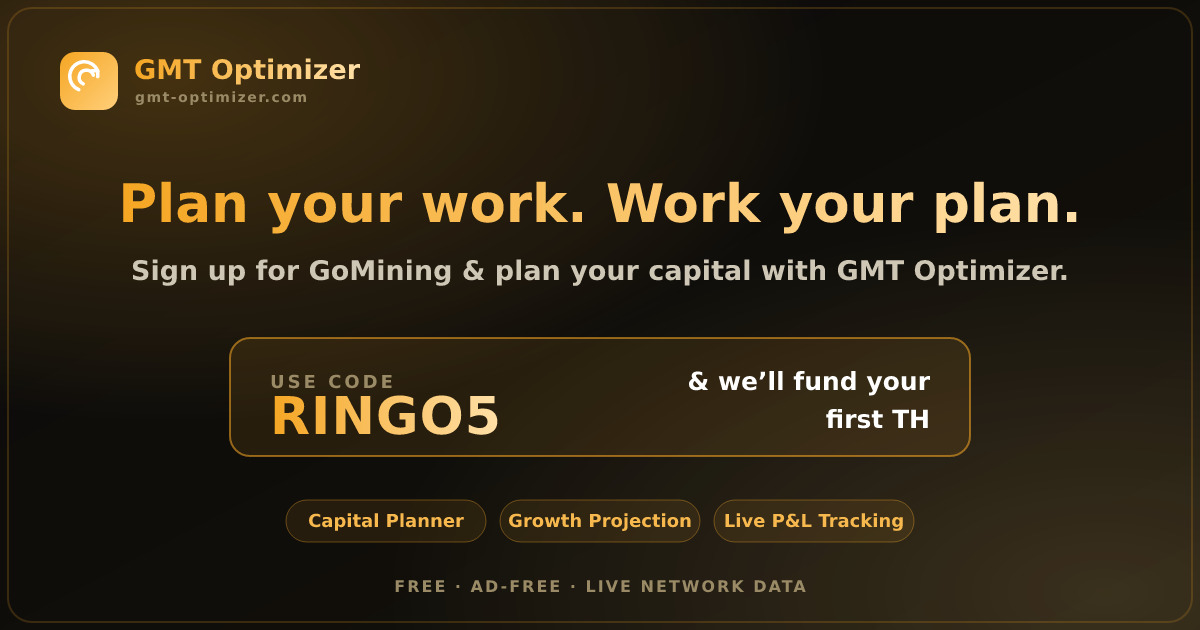
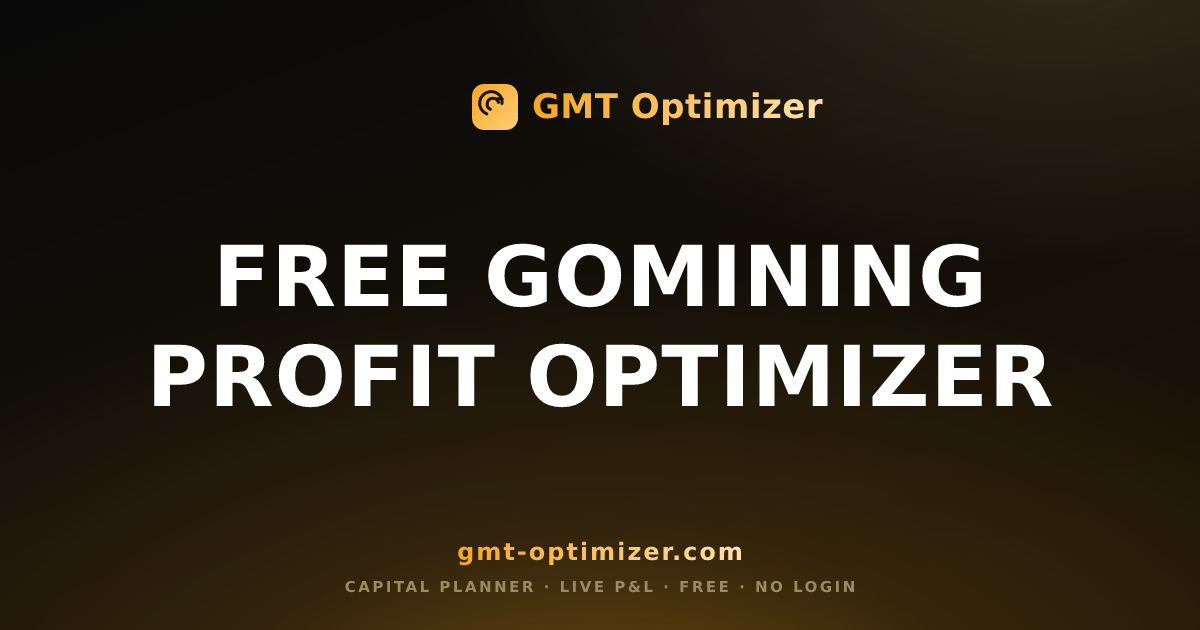
OG card: new super-simple design ('FREE GOMINING PROFIT OPTIMIZER', gold-on-black), bump image to v2 to refresh scrapers

diff --git a/index.html b/index.html
@@ -11,13 +11,13 @@
 <meta property="og:url" content="https://gmt-optimizer.com/">
 <meta property="og:title" content="GMT Optimizer — Plan your GoMining farm">
 <meta property="og:description" content="Sign up for GoMining and plan your capital with GMT Optimizer. Use code RINGO5 and we'll fund your first TH.">
-<meta property="og:image" content="https://gmt-optimizer.com/og-image.png?v=1">
+<meta property="og:image" content="https://gmt-optimizer.com/og-image.png?v=2">
 <meta property="og:image:width" content="1200">
 <meta property="og:image:height" content="630">
 <meta name="twitter:card" content="summary_large_image">
 <meta name="twitter:title" content="GMT Optimizer — Plan your GoMining farm">
 <meta name="twitter:description" content="Sign up for GoMining and plan your capital with GMT Optimizer. Use code RINGO5 and we'll fund your first TH.">
-<meta name="twitter:image" content="https://gmt-optimizer.com/og-image.png?v=1">
+<meta name="twitter:image" content="https://gmt-optimizer.com/og-image.png?v=2">
 <script>/* New users: flag before paint so the landing covers the dashboard immediately (no flash). */try{if(!localStorage.getItem('gm_onboarded'))document.documentElement.classList.add('show-onboarding')}catch(e){}</script>
 <link rel="icon" type="image/svg+xml" href="gmt-optimizer-logo.svg?v=2">
 <link rel="preconnect" href="https://fonts.googleapis.com"><link rel="preconnect" href="https://fonts.gstatic.com" crossorigin>